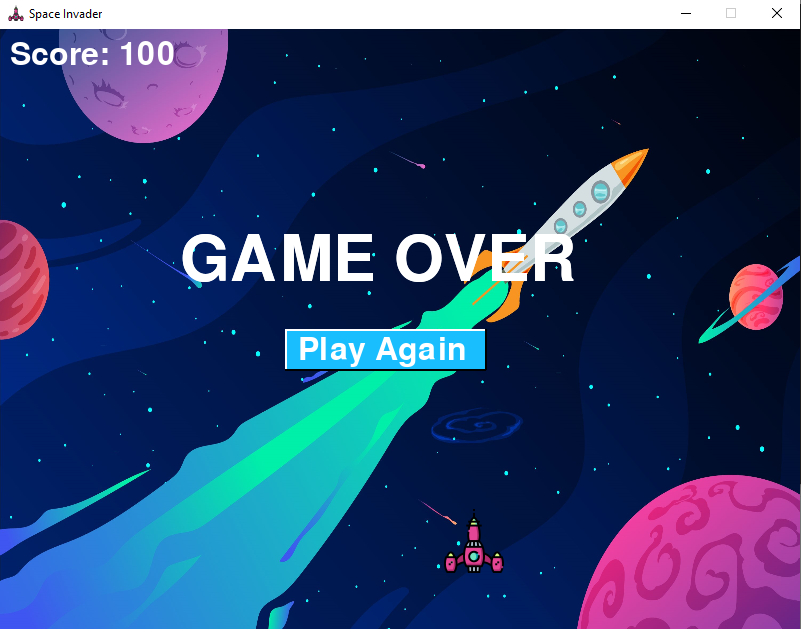
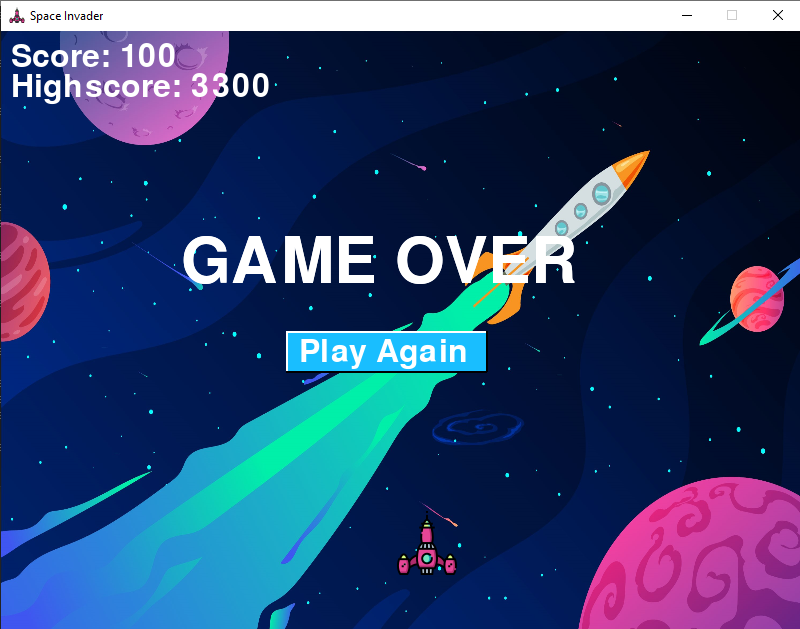
update readme and screenshots. added highscore

diff --git a/README.md b/README.md
@@ -10,9 +10,20 @@ This is an implementation of the popular Atari and NES Space Invaders arcade gam
 4. Use the following command in command prompt to install _Pygame_: `pip install pygame`
 5. Use the following command in command prompt to begin the game: `python spaceInvader.py`
 
+## Concept
+
+
 ## Features 
 * The player can be moved _left_ or _right_ using the `A` and `D` keys, respectively
 * The player can shoot the aliens by using the `right click` on a mouse
 * After the player has cleared all the all the aliens, the user levels up and the number of aliens will increase by 1 and aliens speed will increase as well
 * The game has sound effects for when the user shoots and when a laser hits an alien
+* When an alien gets hit by a laser the users score will increase. When the game ends the users highscore will increase if that rounds score is the users highest score
 * When the game ends a `Play Again` button will appear so that the user can restart the game
+
+## Screenshots
+![start showcase](screenshots/spaceinvaders.png)
+
+![midgame showcase](screenshots/pic2.png)
+
+![gameover showcase](screenshots/gameover.png)
